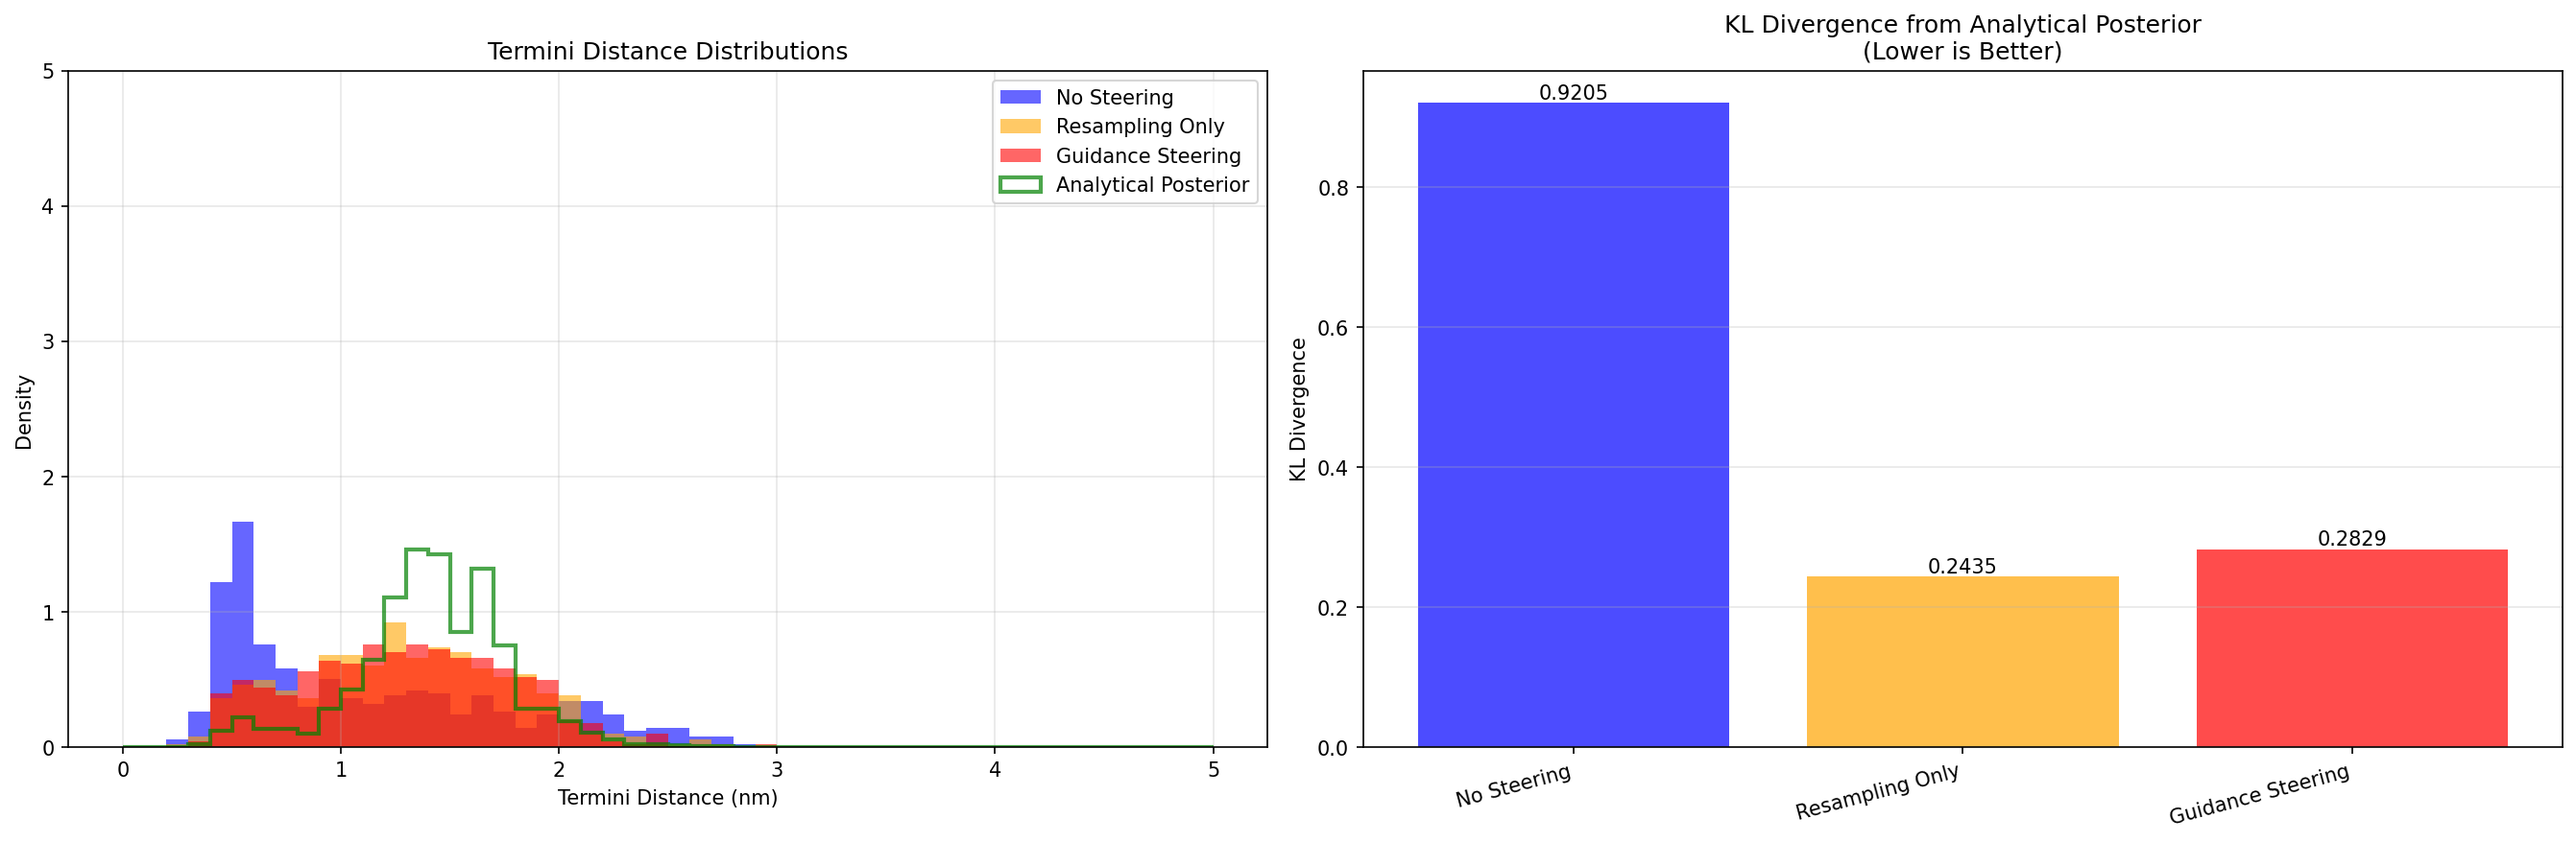
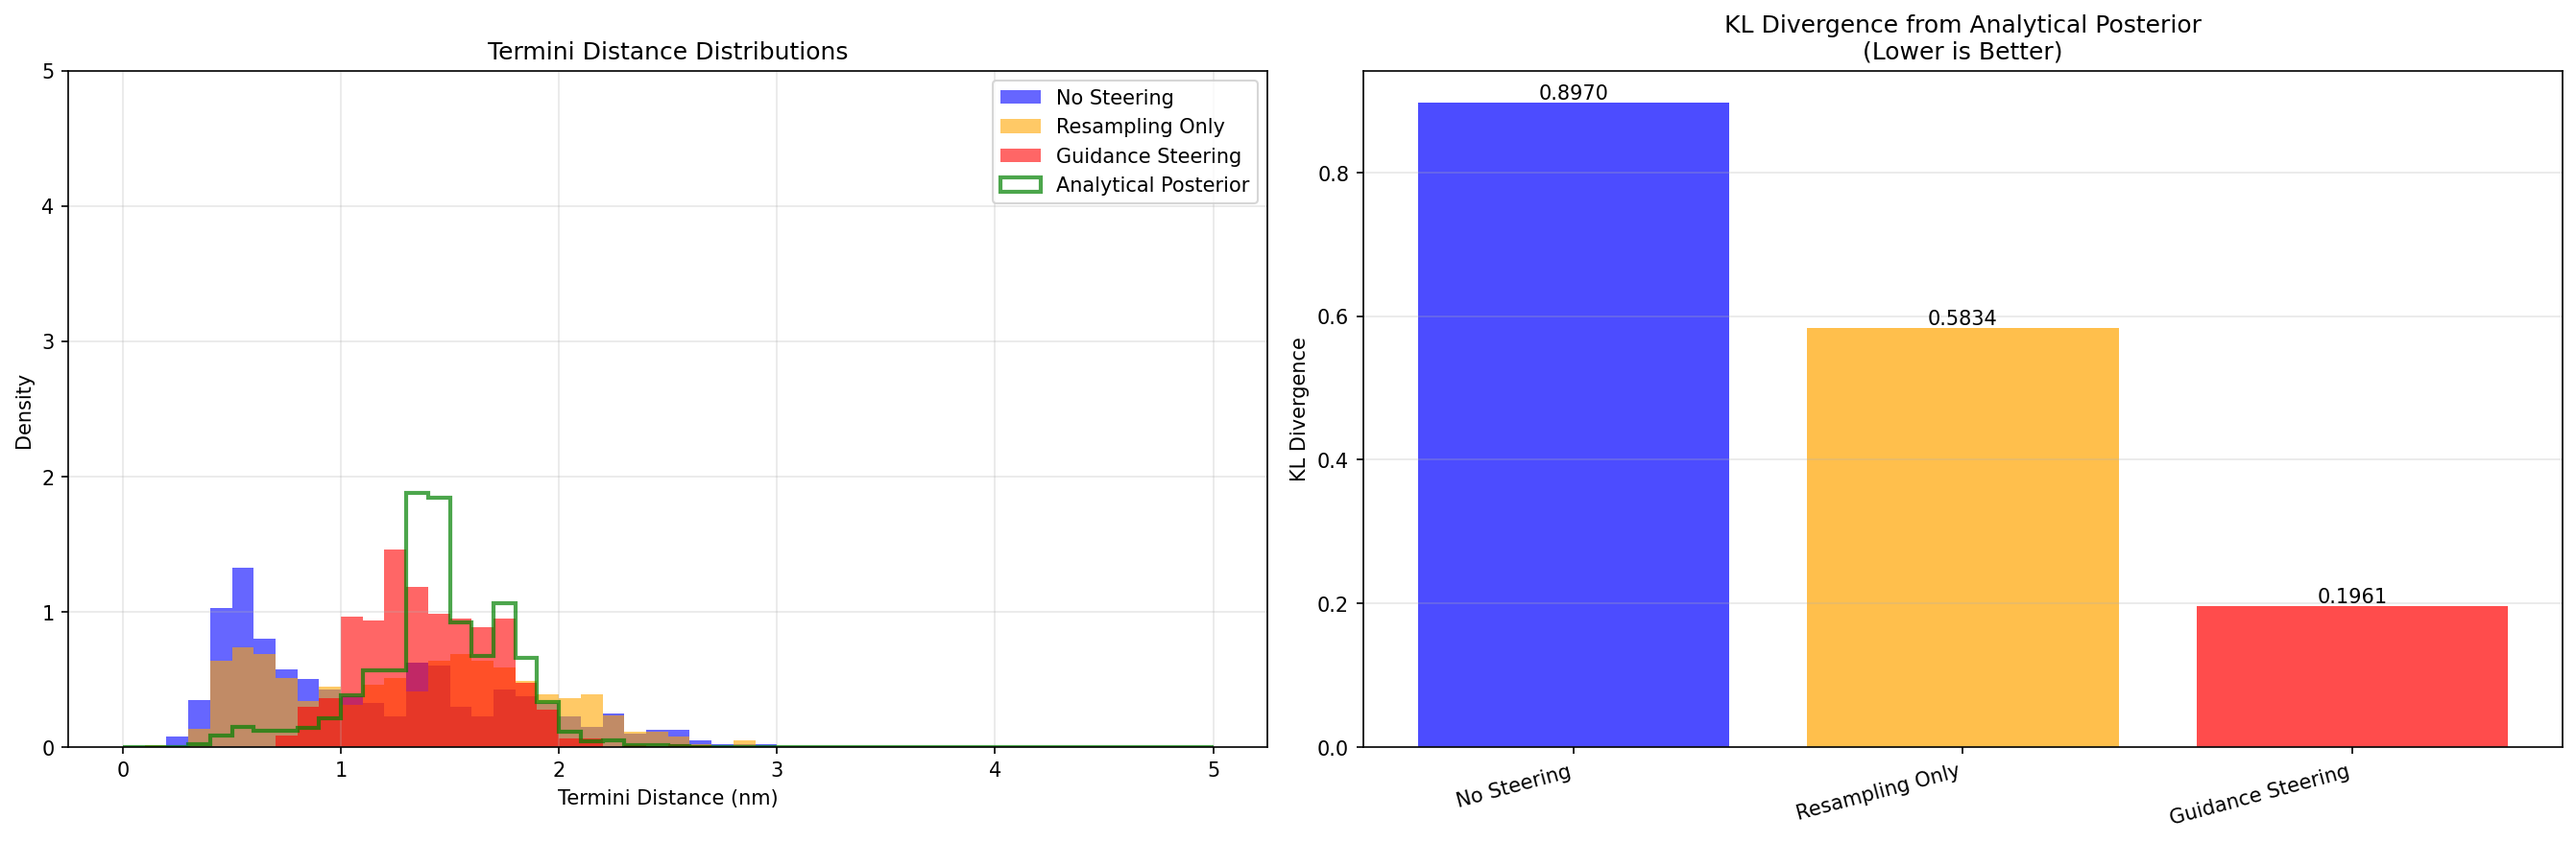
Enhance guidance steering implementation and update experiment configurations
- Updated `run_guidance_steering_comparison.py` to streamline handling of guidance steering alongside resampling.
- Refactored steering configuration to improve clarity and functionality, including adjustments to learning rates and steps for guidance.
- Modified `dpm_solver` to apply gradient guidance more effectively and ensure correct score calculations.
- Increased sample size in main configuration for better statistical analysis during experiments.
- Updated binary image for visualization of steering comparisons.

diff --git a/notebooks/run_guidance_steering_comparison.py b/notebooks/run_guidance_steering_comparison.py
@@ -51,7 +51,7 @@ def run_experiment(cfg, sequence="GYDPETGTWG", experiment_type="no_steering"):
     if experiment_type == "no_steering":
         steering_config = None
         print("No steering enabled")
-    elif experiment_type == "resampling_only":
+    elif experiment_type in ["resampling_only", "guidance_steering"]:
         # Resampling steering WITHOUT guidance
         # Load base config and ensure guidance_steering=False
         repo_root = os.path.dirname(os.path.dirname(os.path.abspath(__file__)))
@@ -69,46 +69,31 @@ def run_experiment(cfg, sequence="GYDPETGTWG", experiment_type="no_steering"):
         steering_config = {
             "num_particles": cfg.steering.num_particles,
             "start": cfg.steering.start,
-            "end": cfg.steering.get("end", 1.0),
+            "end": cfg.steering.end,
             "resampling_freq": cfg.steering.resampling_freq,
-            "fast_steering": cfg.steering.get("fast_steering", False),
+            "fast_steering": cfg.steering.fast_steering,
             "potentials": potentials_config,
         }
         print(
             f"Resampling steering: {cfg.steering.num_particles} particles, guidance_steering=False"
         )
-    elif experiment_type == "guidance_steering":
-        # Resampling steering WITH gradient guidance
-        # Load base config and set guidance_steering=True
-        repo_root = os.path.dirname(os.path.dirname(os.path.abspath(__file__)))
-        potentials_file = os.path.join(
-            repo_root, "src/bioemu/config/steering", "chingolin_steering.yaml"
-        )
+        if experiment_type == "guidance_steering":
 
-        with open(potentials_file) as f:
-            potentials_config = yaml.safe_load(f)
+            # Explicitly set guidance_steering=True on all potentials
+            for potential_name, potential_cfg in potentials_config.items():
+                potential_cfg["guidance_steering"] = True
+            steering_config["potentials"] = potentials_config
 
-        # Explicitly set guidance_steering=True on all potentials
-        for potential_name, potential_cfg in potentials_config.items():
-            potential_cfg["guidance_steering"] = True
-
-        # Use gentler hyperparameters that complement resampling
-        lr = 0.05
-        steps = 10
-        steering_config = {
-            "num_particles": cfg.steering.num_particles,
-            "start": cfg.steering.start,
-            "end": cfg.steering.end,
-            "resampling_freq": cfg.steering.resampling_freq,
-            "fast_steering": False,
-            "potentials": potentials_config,
-            "guidance_learning_rate": lr,  # Required when any potential has guidance_steering=True
-            "guidance_num_steps": steps,  # Required when any potential has guidance_steering=True
-        }
-        print(
-            f"Guidance steering: {cfg.steering.num_particles} particles, "
-            f"guidance_steering=True, lr={lr}, steps={steps}"
-        )
+            # Use gentler hyperparameters that complement resampling
+            steering_config = steering_config | {
+                "guidance_learning_rate": 0.1,  # Required when any potential has guidance_steering=True
+                "guidance_num_steps": 50,  # Required when any potential has guidance_steering=True
+            }
+            print(
+                f"Guidance steering: {cfg.steering.num_particles} particles, "
+                f"guidance_steering=True, lr={steering_config['guidance_learning_rate']}, steps={steering_config['guidance_num_steps']}"
+            )
+        # pass
     else:
         raise ValueError(f"Unknown experiment type: {experiment_type}")
 
@@ -130,6 +115,10 @@ def run_experiment(cfg, sequence="GYDPETGTWG", experiment_type="no_steering"):
         denoiser_config=denoiser_config,
         steering_config=steering_config,
         filter_samples=False,
+    )
+
+    print(
+        f"Sample Statistics: {samples['pos'].shape} {samples['pos'].mean()} {samples['pos'].std()}"
     )
 
     print(f"Sampling completed. Data kept in memory.")
@@ -314,13 +303,13 @@ def main(cfg):
         config_name="bioemu.yaml",
         overrides=[
             "sequence=GYDPETGTWG",
-            "num_samples=250",  # More samples for better statistics
+            "num_samples=400",  # More samples for better statistics
             "denoiser=dpm",
             "denoiser.N=50",
-            "steering.start=1.",
+            "steering.start=0.9",
             "steering.end=0.1",
             "steering.resampling_freq=1",
-            "steering.num_particles=5",
+            "steering.num_particles=2",
             "steering.potentials=chingolin_steering",
         ],
     )
@@ -349,7 +338,6 @@ def main(cfg):
 
     # Run all 3 experiments
     experiments = ["no_steering", "resampling_only", "guidance_steering"]
-    # experiments = ["guidance_steering"]
     samples_dict = {}
 
     for exp_type in experiments:

diff --git a/src/bioemu/denoiser.py b/src/bioemu/denoiser.py
@@ -417,7 +417,7 @@ def dpm_solver(
             score_u = get_score(batch=batch_u, t=t_lambda, sdes=sdes, score_model=score_model)
 
         # Apply gradient guidance if enabled (BEFORE position update)
-        modified_score_u_pos = score_u["pos"]  # Default to original score
+        # modified_score_u_pos = score_u["pos"]  # Default to original score
 
         """
         Guidance Steering
@@ -444,26 +444,30 @@ def dpm_solver(
                         "guidance_learning_rate and guidance_num_steps in steering_config"
                     )
 
-                x0_pred, _ = get_pos0_rot0(sdes, batch_u, t_lambda, score)  # [BS, L, 3]
+                x0_pred_guidance, _ = get_pos0_rot0(sdes, batch_u, t_lambda, score)  # [BS, L, 3]
 
                 # Apply gradient descent to minimize potential energy
                 delta_x = potential_gradient_minimization(
-                    x0_pred, fk_potentials, learning_rate=learning_rate, num_steps=num_steps
+                    10 * x0_pred_guidance,
+                    fk_potentials,
+                    learning_rate=learning_rate,
+                    num_steps=num_steps,
                 )
-                x0_pred = x0_pred.flatten(0, 1)
+                x0_pred_guidance = x0_pred_guidance.flatten(0, 1)
                 delta_x = delta_x.flatten(0, 1)
 
                 # Compute universal backward score using the guided x0_pred
                 # universal_backward_score = -(x - alpha_t * (x0_pred + delta_x)) / sigma_t^2
                 # Expand alpha_t_lambda and sigma_t_lambda to match batch_u.pos shape
-                universal_backward_score = -(batch_u.pos - alpha_t_lambda * (x0_pred + delta_x)) / (
-                    sigma_t_lambda**2
-                )
+                universal_backward_score = -(
+                    batch_u.pos - alpha_t_lambda * (x0_pred_guidance + delta_x)
+                ) / (sigma_t_lambda**2)
 
                 # Compute weighted combination of original and universal scores
                 # Weight scheduling (from enhancedsampling)
                 current_t = t_lambda[0].item()
-                w_t_mod = torch.relu(3 * (torch.tensor(current_t, device=device) - 0.2)) * 0.0
+                # w_t_mod = torch.relu(3 * (torch.tensor(current_t, device=device) - 0.1))
+                w_t_mod = torch.tensor(3.0, device=device)
                 w_t_orig = torch.tensor(1.0, device=device)
                 w_t_mod = w_t_mod / (w_t_orig + w_t_mod)
                 w_t_orig = w_t_orig / (w_t_orig + w_t_mod)
@@ -491,6 +495,7 @@ def dpm_solver(
 
                 # Accumulate log weights
                 log_weights = log_weights + step_log_weight * 0.0
+                score_u["pos"] = modified_score_u_pos
 
         pos_next = (
             alpha_t_next / alpha_t * batch_hat.pos
@@ -539,7 +544,7 @@ def dpm_solver(
             R0 += [R0_t.cpu()]
 
             # Handle fast steering - expand batch at steering start time
-            expected_expansion_step = int(N * steering_config.get("start", 0.0))
+            expected_expansion_step = int(N * steering_config["start"])
             max_batch_size = steering_config.get("max_batch_size", None)
             if (
                 steering_config.get("fast_steering", False)
@@ -578,9 +583,8 @@ def dpm_solver(
             if (
                 steering_config["num_particles"] > 1
             ):  # if resampling implicitely given by num_fk_samples > 1
-                steering_end = steering_config["end"]  # Default to 1.0 if not specified
                 if (
-                    int(N * steering_config["start"]) <= i < min(int(N * steering_end), N - 2)
+                    steering_config["start"] >= t_lambda[i] >= steering_config["end"]
                     and i % steering_config["resampling_freq"] == 0
                 ):
                     batch, total_energy, log_weights = resample_batch(
@@ -592,7 +596,7 @@ def dpm_solver(
                         log_weights=log_weights,
                     )
                     previous_energy = total_energy
-                elif N - 2 <= i:
+                elif N - 1 == i:
                     # print('Final Resampling [BS, FK_particles] back to BS')
                     batch, total_energy, log_weights = resample_batch(
                         batch=batch,

diff --git a/src/bioemu/steering.py b/src/bioemu/steering.py
@@ -35,9 +35,7 @@ def potential_gradient_minimization(x, potentials, learning_rate=0.1, num_steps=
     for step in range(num_steps):
         x_ = x_.requires_grad_(True)
         # Convert nm to Angstroms (multiply by 10) for potentials
-        loss = sum(
-            potential(None, 10 * x_, None, None, t=0, N=1) for potential in guidance_potentials
-        )
+        loss = sum(potential(None, x_, None, None, t=0, N=1) for potential in guidance_potentials)
         grad = torch.autograd.grad(loss.sum(), x_, create_graph=False)[0]
         x_ = (x_ - learning_rate * grad).detach()
 
